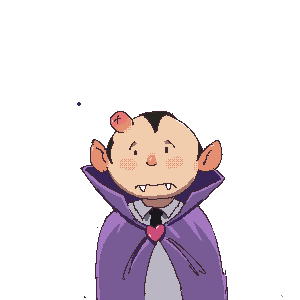
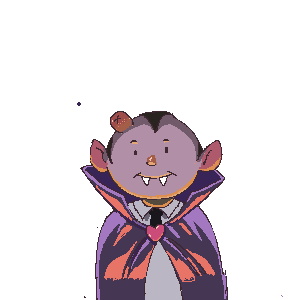
Update spooky kitchen art and add asset integration handoff
Include cleaned individual potion vials, updated scene and customer art, and dimension notes for manual integration. Exclude the local loading workaround.

Copilot-Session: 3b150064-68d3-4302-9379-e8d6a27dfbe0

Changed region(s): [[0.3, 0.36, 0.78, 1.0], [0.3, 0.6, 0.33, 0.63]]

diff --git a/art/ASSET-HANDOFF.md b/art/ASSET-HANDOFF.md
@@ -1,0 +1,62 @@
+# Spookier art - local integration handoff
+
+Exports come from `spooky-potion-kitchen-named.aseprite`, a 300 x 300,
+single-frame source. Fifteen PNGs were exported using Aseprite into the existing
+`assets/imgs/*.pixelated.png` filenames. This asset handoff excludes code changes.
+
+## Dimensions and placement
+
+Background, assembled stage, customers, cauldron, mask, fire frames, combined
+vials, and request bubble retain their 300 x 300 canvas. Preserve those canvas
+offsets when layering them; do not independently center their visible bounds.
+The existing 512 x 512 test image was not changed.
+
+Individual vials were initially trimmed on export. The artist subsequently
+replaced those PNGs with cleaned versions and intentional transparent padding:
+
+| Asset | Previous size | New size |
+| --- | --- | --- |
+| primary-potion-vial-red | 69 x 176 | 64 x 163 |
+| primary-potion-vial-yellow | 60 x 179 | 52 x 162 |
+| primary-potion-vial-blue | 70 x 161 | 72 x 170 |
+
+Current nontransparent bounds (exclusive right/bottom) are blue
+`(5, 34, 67, 153)`, red `(0, 44, 64, 163)`, and yellow `(0, 39, 52, 162)`.
+The previously identified blue outliers no longer expand its visible bounds.
+Padding is preserved; do not automatically trim these artist-supplied replacements.
+The named Aseprite copy predates this cleanup and must not be re-exported over
+these PNGs without incorporating the artist's changes.
+
+Cauldron visible bounds are `(70, 221, 232, 297)`; mask bounds are
+`(73, 225, 227, 297)`, both on the same 300 x 300 canvas. The mask was exported
+as authored (orange fill), not recolored to white. Check which mask channel the
+eventual shader uses.
+
+## Manual code integration for Kirk
+
+- The current renderer uses the background, stage, cauldron, and individual
+  vials. Customers, request bubble, mask, and fire frames are available but are
+  not drawn by this renderer yet.
+- Individual vials use an image aspect ratio and a fixed height scale. Check
+  revised sizes, rope-top pivot, screen-aspect correction order during sway,
+  and hit regions on both square and wide windows. Account for the transparent
+  padding and visible bounds above when selecting the rope-top pivot.
+- Four happy customer variants are still the previous artwork. This source
+  provides one character image per customer; new expressions need artist review.
+- The combined-vials layer was hidden in the source and was exported explicitly.
+  Review it before using it as a substitute for the separate new vial layers.
+- `src/client.js` already has a temporary, uncommitted local workaround:
+  `customers.empty()` was replaced with `customers.length === 0`. This predates
+  this export and must not be included in an asset-only commit.
+
+Original PNGs are backed up outside the repository in this session's
+`files/pre-spooky-style-assets` folder. The original Aseprite file is untouched.
+
+## Local preview check
+
+Before the artist's vial cleanup, at a 1200 x 800 viewport, all 22 listed resources finished loading, no runtime
+exceptions occurred, and rendered frames continued animating. The new background,
+stage, cauldron, and individual vials appear. The vial ropes extend beyond the top
+edge and the bottles occupy a large part of the upper scene; Kirk should review
+scale and hanging positions against the intended composition. This confirms a
+working preview, not finished gameplay or correct final placement.
